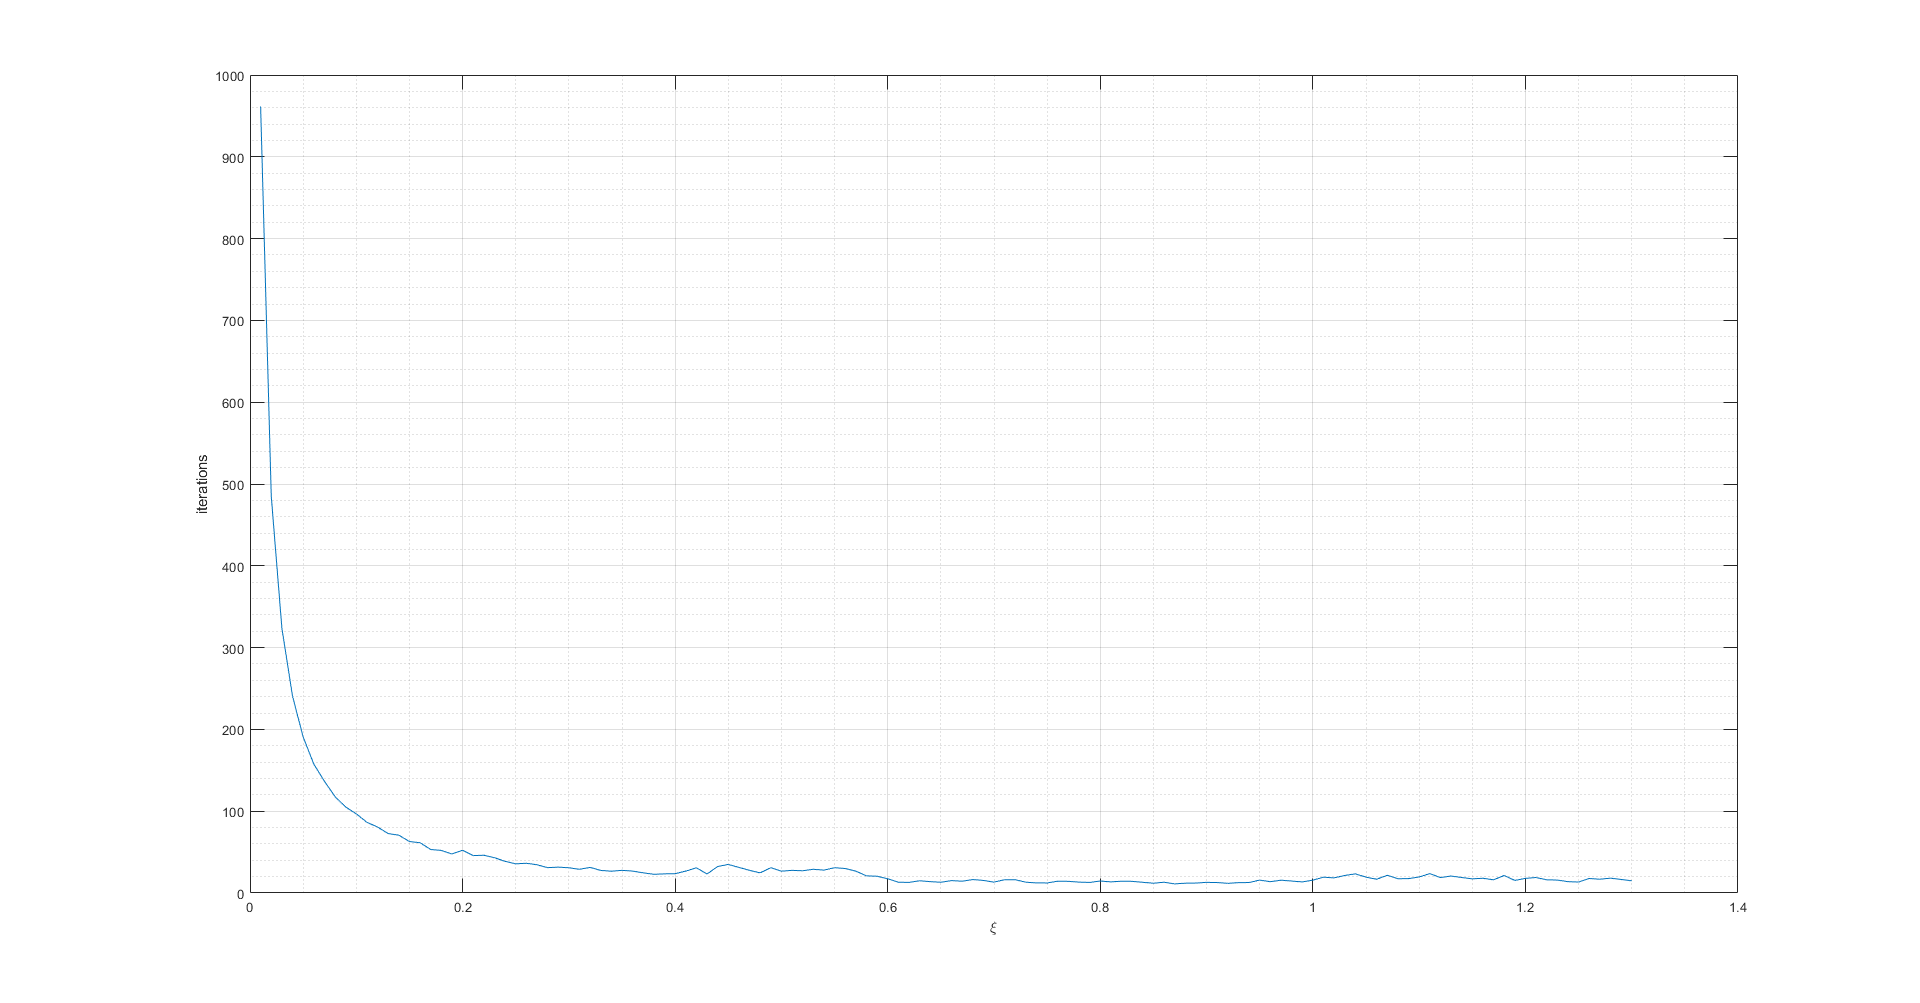
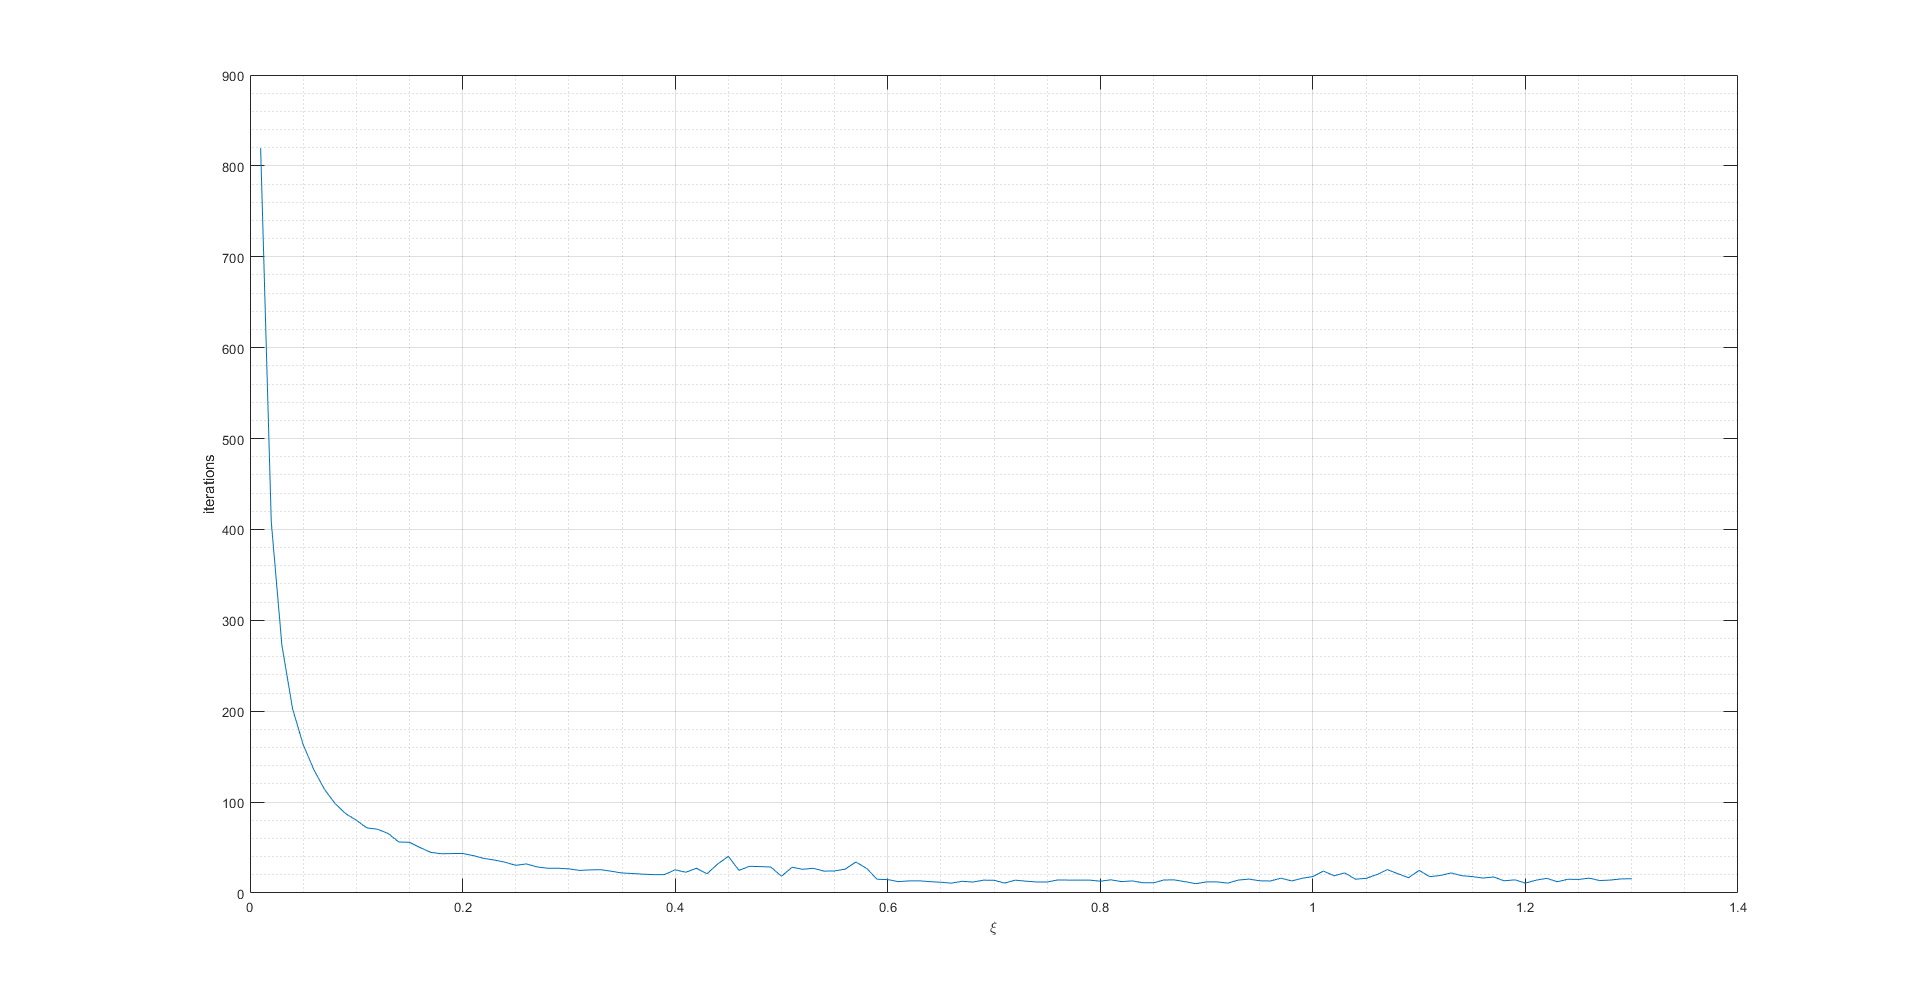
Added CommandInterpreter to split Arm code and code for interpreting commands.

diff --git a/ARM/Arm.py b/ARM/Arm.py
@@ -1,15 +1,16 @@
 from adafruit_servokit import ServoKit
-from bluetooth import BluetoothError
+# from bluetooth import BluetoothError
 
 from ArmKinematics import ArmKinematics
-from connection.BufferedData import BufferedData
-from exceptions.NotReachableException import NotReachableException
+# from connection.BufferedData import BufferedData
+# from exceptions.NotReachableException import NotReachableException
 
 
 class Arm:
-    def __init__(self, bluetoothConnection, servoNumber, pulseWidths, initialAngles):
-        self.bluetoothConnection = bluetoothConnection
-        self.bufferedData = BufferedData()
+    # def __init__(self, bluetoothConnection, servoNumber, pulseWidths, initialAngles):
+    def __init__(self, servoNumber, pulseWidths, initialAngles):
+        # self.bluetoothConnection = bluetoothConnection
+        # self.bufferedData = BufferedData()
         self.servoNumber = servoNumber
         self.servoKit = ServoKit(channels=16)
         for index in range(servoNumber):
@@ -18,51 +19,51 @@ class Arm:
             servo.angle = initialAngles[index]
         self.kinematics = ArmKinematics(q1=self.getAngle(0), q2=self.getAngle(1), q3=self.getAngle(2))
 
-    def readCommands(self):
-        # returns True if the arm received a shutdown command
-        # and False if the client disconnected
-        try:
-            return self.readUntilShutdown()
-        except BluetoothError:
-            print("Disconnected")
-            return False
+    # def readCommands(self):
+    #     # returns True if the arm received a shutdown command
+    #     # and False if the client disconnected
+    #     try:
+    #         return self.readUntilShutdown()
+    #     except BluetoothError:
+    #         print("Disconnected")
+    #         return False
 
-    def readUntilShutdown(self):
-        while True:
-            data = self.bluetoothConnection.readData(1024)
-            self.bufferedData.append(data)
-            commands = self.bufferedData.flush()
-            for command in commands:
-                print(command)
-                if command == "shutdown":
-                    return True
-                self.processCommand(command)
+    # def readUntilShutdown(self):
+    #     while True:
+    #         data = self.bluetoothConnection.readData(1024)
+    #         self.bufferedData.append(data)
+    #         commands = self.bufferedData.flush()
+    #         for command in commands:
+    #             print(command)
+    #             if command == "shutdown":
+    #                 return True
+    #             self.processCommand(command)
 
-    def processCommand(self, command):
-        splitCommand = command.split(' ')
-        if command == "joints":
-            self.sendJoints()
-        elif command == "grab":
-            self.sendGrab()
-        elif command == "kinematics":
-            self.sendKinematics()
-        elif self.isNavigationCommand(command):
-            pass  # TODO: Implement movement.
-        elif splitCommand[0] == "angle":
-            self.changeAngle(splitCommand)
-        elif splitCommand[0] == "coordinate":
-            self.changeCoordinates(splitCommand)
-        else:
-            self.sendUnknownCommand()
+    # def processCommand(self, command):
+    #     splitCommand = command.split(' ')
+    #     if command == "joints":
+    #         self.sendJoints()
+    #     elif command == "grab":
+    #         self.sendGrab()
+    #     elif command == "kinematics":
+    #         self.sendKinematics()
+    #     elif self.isNavigationCommand(command):
+    #         pass  # TODO: Implement movement.
+    #     elif splitCommand[0] == "angle":
+    #         self.changeAngle(splitCommand)
+    #     elif splitCommand[0] == "coordinate":
+    #         self.changeCoordinates(splitCommand)
+    #     else:
+    #         self.sendUnknownCommand()
 
-    def sendJoints(self):
-        for index in range(self.servoNumber - 1):
-            self.bluetoothConnection.writeData(self.getJointAngleCommand(index))
-        self.sendGrab()
+    # def sendJoints(self):
+    #     for index in range(self.servoNumber - 1):
+    #         self.bluetoothConnection.writeData(self.getJointAngleCommand(index))
+    #     self.sendGrab()
 
-    def getJointAngleCommand(self, index):
-        angle = round(self.getAngle(index))
-        return "angle " + str(index) + " " + str(angle)
+    # def getJointAngleCommand(self, index):
+    #     angle = round(self.getAngle(index))
+    #     return "angle " + str(index) + " " + str(angle)
 
     def getAngle(self, servoIndex):
         angle = self.servoKit.servo[servoIndex].angle
@@ -71,59 +72,53 @@ class Arm:
     def correctAngle(self, angle, index):
         return angle if index % 2 != 0 else 180 - angle
 
-    def sendGrab(self):
-        self.bluetoothConnection.writeData(self.getGrabAngleCommand())
+    # def sendGrab(self):
+    #     self.bluetoothConnection.writeData(self.getGrabAngleCommand())
 
-    def getGrabAngleCommand(self):
-        servoIndex = self.servoNumber - 1
-        angle = round(self.getAngle(servoIndex))
-        return "angle grab " + str(angle)
+    # def getGrabAngleCommand(self):
+    #     servoIndex = self.servoNumber - 1
+    #     angle = round(self.getAngle(servoIndex))
+    #     return "angle grab " + str(angle)
 
-    def sendKinematics(self):
-        coordinates = self.kinematics.getRoundedKinematics()
-        x = coordinates[0][0]
-        y = coordinates[1][0]
-        phi = coordinates[2][0]
-        self.bluetoothConnection.writeData(self.getCoordinateCommand("x", x))
-        self.bluetoothConnection.writeData(self.getCoordinateCommand("y", y))
-        self.bluetoothConnection.writeData(self.getCoordinateCommand("phi", phi))
+    # def sendKinematics(self):
+    #     coordinates = self.kinematics.getRoundedKinematics()
+    #     x = coordinates[0][0]
+    #     y = coordinates[1][0]
+    #     phi = coordinates[2][0]
+    #     self.bluetoothConnection.writeData(self.getCoordinateCommand("x", x))
+    #     self.bluetoothConnection.writeData(self.getCoordinateCommand("y", y))
+    #     self.bluetoothConnection.writeData(self.getCoordinateCommand("phi", phi))
 
-    def getCoordinateCommand(self, coordinate, value):
-        return "coordinate " + coordinate + " " + str(value)
+    # def getCoordinateCommand(self, coordinate, value):
+    #     return "coordinate " + coordinate + " " + str(value)
 
-    def isNavigationCommand(self, command):
-        navigationCommands = ["forward", "back", "left", "right"]
-        return command in navigationCommands
+    # def isNavigationCommand(self, command):
+    #     navigationCommands = ["forward", "back", "left", "right"]
+    #     return command in navigationCommands
 
-    def changeAngle(self, splitCommand):
-        servoIndex = int(splitCommand[1])
-        angle = int(splitCommand[2])
+    def changeAngle(self, servoIndex, angle):
         if 0 <= angle <= 180:
             self.servoKit.servo[servoIndex].angle = self.correctAngle(angle, servoIndex)
-            if servoIndex < 3:  # Prevents updating kinematics for grab servo.
+            if servoIndex < self.servoNumber - 1:  # Prevents updating kinematics for grab servo.
                 self.updateKinematics()
 
     def updateKinematics(self):
         self.kinematics.setConfiguration(q1=self.getAngle(0), q2=self.getAngle(1), q3=self.getAngle(2))
 
-    def changeCoordinates(self, splitCommand):
-        coordinate = splitCommand[1]
-        value = int(splitCommand[2])
-        try:
-            if coordinate == "x":
-                self.kinematics.changeXPosition(value)
-            elif coordinate == "y":
-                self.kinematics.changeYPosition(value)
-            else:
-                self.kinematics.changePhiAngle(value)
-            self.updateAngles()
-        except NotReachableException:
-            self.sendKinematics()
+    def changeCoordinates(self, coordinate, value):
+        if coordinate == "x":
+            self.kinematics.changeXPosition(value)
+        elif coordinate == "y":
+            self.kinematics.changeYPosition(value)
+        else:
+            self.kinematics.changePhiAngle(value)
+        self.updateAngles()
 
     def updateAngles(self):
+        # TODO: Check if it needs to be rounded.
         configuration = self.kinematics.getRoundedConfiguration()
         for i in range(3):
             self.servoKit.servo[i].angle = self.correctAngle(configuration[i][0], i)
 
-    def sendUnknownCommand(self):
-        self.bluetoothConnection.writeData("Unknown command")
+    # def sendUnknownCommand(self):
+    #     self.bluetoothConnection.writeData("Unknown command")

diff --git a/ARM/CommandInterpreter.py b/ARM/CommandInterpreter.py
@@ -1,0 +1,98 @@
+from bluetooth import BluetoothError
+
+from connection.BufferedData import BufferedData
+from exceptions.NotReachableException import NotReachableException
+
+
+class CommandInterpreter:
+    def __init__(self, bluetoothConnection, arm, mobilePlatform):
+        self.bluetoothConnection = bluetoothConnection
+        self.bufferedData = BufferedData()
+        self.arm = arm
+        self.mobilePlatform = mobilePlatform
+
+    def readCommands(self):
+        # returns True if the arm received a shutdown command
+        # and False if the client disconnected
+        try:
+            return self.readUntilShutdown()
+        except BluetoothError:
+            print("Disconnected")
+            return False
+
+    def readUntilShutdown(self):
+        while True:
+            data = self.bluetoothConnection.readData(1024)
+            self.bufferedData.append(data)
+            commands = self.bufferedData.flush()
+            for command in commands:
+                print(command)
+                if command == "shutdown":
+                    return True
+                self.processCommand(command)
+
+    def processCommand(self, command):
+        splitCommand = command.split(' ')
+        if command == "joints":
+            self.sendJoints()
+        elif command == "grab":
+            self.sendGrab()
+        elif command == "kinematics":
+            self.sendKinematics()
+        elif self.isNavigationCommand(command):
+            pass  # TODO: Implement movement.
+        elif splitCommand[0] == "angle":
+            self.changeAngle(splitCommand)
+        elif splitCommand[0] == "coordinate":
+            self.changeCoordinates(splitCommand)
+        else:
+            self.sendUnknownCommand()
+
+    def sendJoints(self):
+        for index in range(self.arm.servoNumber - 1):
+            self.bluetoothConnection.writeData(self.getJointAngleCommand(index))
+        self.sendGrab()
+
+    def getJointAngleCommand(self, index):
+        angle = round(self.arm.getAngle(index))
+        return "angle " + str(index) + " " + str(angle)
+
+    def sendGrab(self):
+        self.bluetoothConnection.writeData(self.getGrabAngleCommand())
+
+    def getGrabAngleCommand(self):
+        servoIndex = self.arm.servoNumber - 1
+        angle = round(self.arm.getAngle(servoIndex))
+        return "angle grab " + str(angle)
+
+    def sendKinematics(self):
+        coordinates = self.arm.kinematics.getRoundedKinematics()
+        x = coordinates[0][0]
+        y = coordinates[1][0]
+        phi = coordinates[2][0]
+        self.bluetoothConnection.writeData(self.getCoordinateCommand("x", x))
+        self.bluetoothConnection.writeData(self.getCoordinateCommand("y", y))
+        self.bluetoothConnection.writeData(self.getCoordinateCommand("phi", phi))
+
+    def getCoordinateCommand(self, coordinate, value):
+        return "coordinate " + coordinate + " " + str(value)
+
+    def isNavigationCommand(self, command):
+        navigationCommands = ["forward", "back", "left", "right"]
+        return command in navigationCommands
+
+    def changeAngle(self, splitCommand):
+        servoIndex = int(splitCommand[1])
+        angle = int(splitCommand[2])
+        self.arm.changeAngle(servoIndex, angle)
+
+    def changeCoordinates(self, splitCommand):
+        coordinate = splitCommand[1]
+        value = int(splitCommand[2])
+        try:
+            self.arm.changeCoordinates(coordinate, value)
+        except NotReachableException:
+            self.sendKinematics()
+
+    def sendUnknownCommand(self):
+        self.bluetoothConnection.writeData("Unknown command")

diff --git a/ARM/Main.py b/ARM/Main.py
@@ -1,27 +1,32 @@
 from connection.BluetoothConnection import BluetoothConnection
 from Arm import Arm
+from CommandInterpreter import CommandInterpreter
 import RPi.GPIO as GPIO
 import subprocess
 
 bluetoothConnection = BluetoothConnection(port=1)
 
 servoNumber = 4
-pulseWidths = [[800, 2200], [800, 2200], [800, 2600], [1600, 2400]]
+pulseWidths = [[500, 2600], [500, 2600], [500, 2600], [1800, 2600]]
 initialAngles = [160, 110, 150, 90]
-arm = Arm(bluetoothConnection, servoNumber, pulseWidths, initialAngles)
+# arm = Arm(bluetoothConnection, servoNumber, pulseWidths, initialAngles)
+arm = Arm(servoNumber, pulseWidths, initialAngles)
 
+mobilePlatform = None
+
+commandInterpreter = CommandInterpreter(bluetoothConnection, arm, mobilePlatform)
 
 def shutdown():
     bluetoothConnection.close()
     GPIO.cleanup()
-    subprocess.call("sudo shutdown -h now", shell=True)
+    # subprocess.call("sudo shutdown -h now", shell=True) TODO: Uncomment, debug only.
 
 
 try:
     shutdownReceived = False
     while not shutdownReceived:  # establish a new connection if the client disconnected
         bluetoothConnection.establish()
-        shutdownReceived = arm.readCommands()
+        shutdownReceived = commandInterpreter.readCommands()
 except:
     pass
 finally:

diff --git a/ARM/connection/BluetoothConnection.py b/ARM/connection/BluetoothConnection.py
@@ -5,8 +5,8 @@ class BluetoothConnection:
     def __init__(self, port):
         self.serverSocket = BluetoothSocket(RFCOMM)
         self.port = port
-        self.serverSocket.bind(("", self.port))
-        self.serverSocket.listen(self.port)
+        self.serverSocket.bind(("", port))
+        self.serverSocket.listen(port)
         self.clientSocket = None
         self.newline = '\n'
 
@@ -25,7 +25,7 @@ class BluetoothConnection:
         self.clientSocket.send(encodedData)
 
     def close(self):
-        if 'clientSocket' in globals():
+        if 'clientSocket' in globals(): #TODO: Check if globals check is needed (maybe None check is enough).
             self.clientSocket.close()
         self.serverSocket.close()
         print("Sockets closed")

diff --git a/Calculations/xiParameter.m b/Calculations/xiParameter.m
@@ -16,7 +16,7 @@ for i = 1:length(xi)
         % Iterate until error norm is equal to error of 1 degree on each
         % coordinate norm. Assumes that 1000 iterations mean that point is
         % unreachable.
-        while(norm(xf-k) > norm([deg2rad(1);deg2rad(1);deg2rad(1)]) && iterations < 1000)
+        while(norm(xf-k) > norm([0.1;0.1;deg2rad(0.1)]) && iterations < 1000)
             invJ = calculateJacobianInverse(q, theta, a, lenE);
             q = q + xi(i)*invJ*(xf-k);
             k = calculateKinematics(q, theta, a, lenE);

diff --git a/ARM/ArmKinematics.py b/ARM/ArmKinematics.py
@@ -8,7 +8,7 @@ from exceptions.NotReachableException import NotReachableException
 class ArmKinematics:
     XI = 0.9
     MAX_INVERSE_KINEMATICS_ITERATIONS = 200
-    MAX_INVERSE_KINEMATICS_ERROR = np.linalg.norm(np.array(([radians(1), radians(1), radians(1)])))
+    MAX_INVERSE_KINEMATICS_ERROR = np.linalg.norm(np.array(([0.01, 0.01, radians(0.1)])))
 
     def __init__(self, q1, q2, q3):
         self.q1 = radians(q1)
